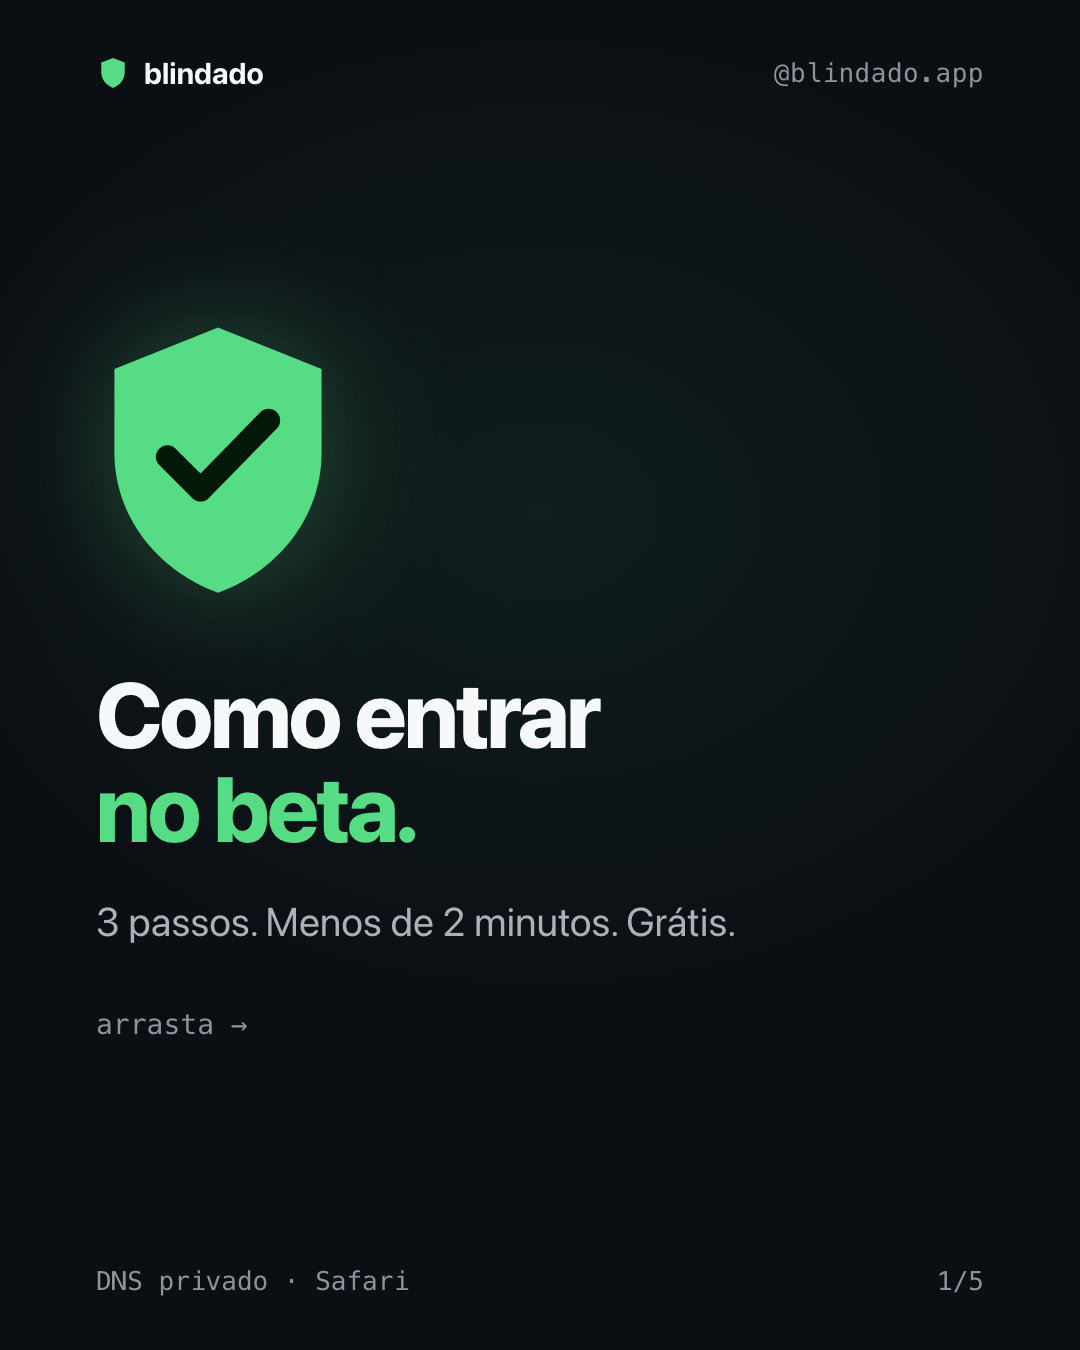
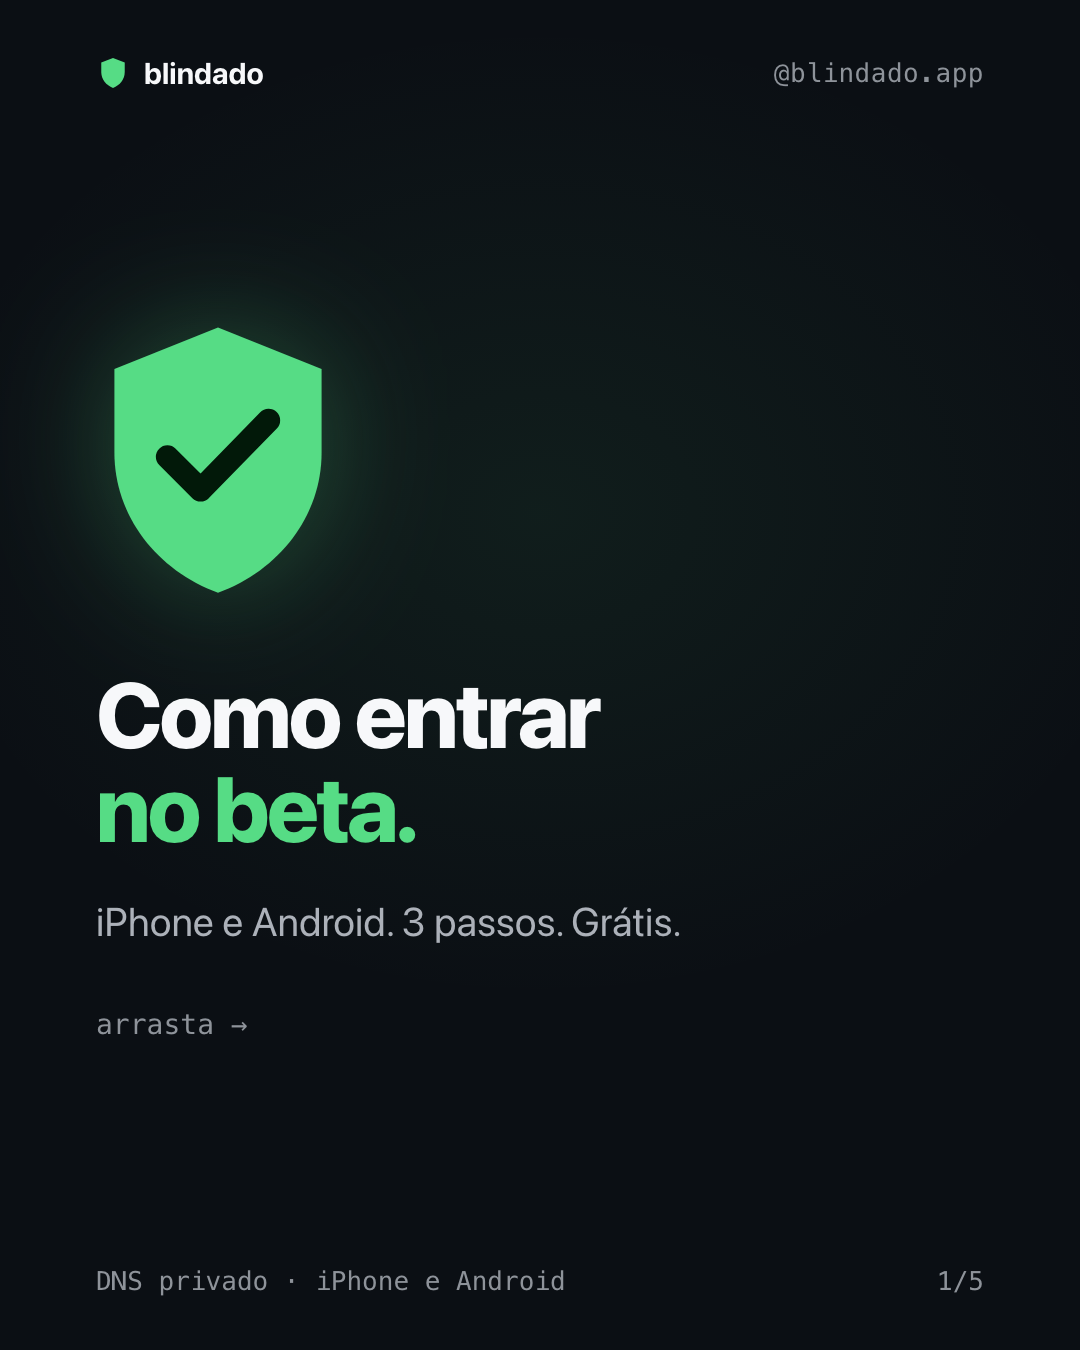
Rewrite beta posts for iPhone and Android; new beta-aberto post replaces acesso-antecipado
The published post only mentioned iPhone. Slides, captions, footer and the
BETA DM now cover both platforms (TestFlight for iPhone, Play closed test
via the site form for Android).

Changed region(s): [[0.0917, 0.6533, 0.6722, 0.7156], [0.4278, 0.9333, 0.5194, 0.9644], [0.3056, 0.9333, 0.3972, 0.9644]]

diff --git a/scripts/instagram/responder_beta.py b/scripts/instagram/responder_beta.py
@@ -39,12 +39,15 @@ ESTADO = REPO / "marketing" / "leads-respondidos.json"
 # Grupo externo "Beta público" (App Store Connect), build 1.0.0 (5), limite 10.000 testadores.
 TESTFLIGHT = "https://testflight.apple.com/join/Evt1DGrb"
 
+SITE_BETA = "https://guike-zip.github.io/blindado-android/#acesso-antecipado"
 DM_COM_LINK = ("Oi! Que bom que você quer testar o Blindado 🛡\n\n"
-               "Aqui está o convite do beta (TestFlight, o app de testes da Apple):\n{link}\n\n"
-               "Instala o TestFlight, abre o link e pronto. Qualquer dúvida é só responder aqui.")
+               "📱 iPhone: instala o TestFlight (app de testes da Apple) e abre este convite:\n{link}\n\n"
+               "🤖 Android: o teste do Google Play é por e-mail. Deixa o e-mail da sua conta Google "
+               "aqui que a gente te adiciona e manda o link:\n" + SITE_BETA + "\n\n"
+               "Qualquer dúvida é só responder aqui.")
 DM_SEM_LINK = ("Oi! Que bom que você quer testar o Blindado 🛡\n\n"
-               "Seu nome está na lista do beta. Assim que o convite do TestFlight abrir, "
-               "a gente te manda por aqui.")
+               "Deixa seu e-mail e a plataforma (iPhone ou Android) aqui que a gente te manda o convite:\n"
+               + SITE_BETA)
 PUBLICA_DM_OK = "Te chamei no direct, @{user}! 💚"
 PUBLICA_DM_FALHOU = "Oba, @{user}! Chama a gente no direct que te mandamos o convite 💚"
 

diff --git a/scripts/instagram/gerar_slides.py b/scripts/instagram/gerar_slides.py
@@ -137,7 +137,7 @@ def moldura(conteudo: str, i: int, n: int, classe: str = "") -> str:
     marca = f'<div class="marca">{svg_escudo("#56DC85", check=False, classe="")}blindado</div>'
     return (f'<!doctype html><html><head><meta charset="utf-8"><style>{CSS}</style></head><body>'
             f'<div class="slide {classe}"><div class="topo">{marca}<span>@blindado.app</span></div>'
-            f'{conteudo}<div class="rodape"><span>DNS privado · Safari</span>'
+            f'{conteudo}<div class="rodape"><span>DNS privado · iPhone e Android</span>'
             f'<span>{i}/{n}</span></div></div></body></html>')
 
 
